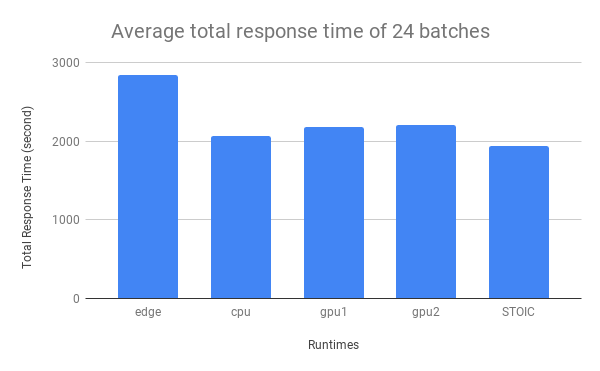
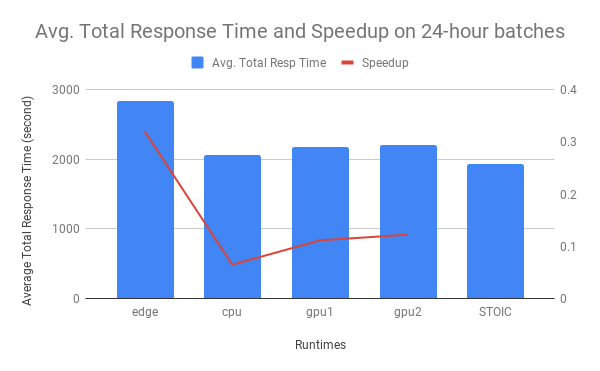
Updates from Overleaf

diff --git a/STOIC.tex b/STOIC.tex
@@ -1,4 +1,4 @@
-To leverage accelerator and distributed scheduling using the serverless architecture, we have developed STOIC, a framework for executing machine learning applications in hybrid cloud consisting of edge devices and public data centers. The STOIC streamlines the end-to-end process of packaging, transferring, scheduling, executing and retrieving result for machine learning applications. Figure~\ref{fig:STOIC} shows the architecture of STOIC, which is composed by three principal pillars: Edge cloud, Mayhem cloud and Nautilus cloud.
+To leverage accelerator and distributed scheduling using the serverless architecture, we have developed STOIC, a framework for executing machine learning applications in hybrid cloud consisting of edge devices and public data centers. The STOIC streamlines the end-to-end process of packaging, transferring, scheduling, executing and retrieving result for machine learning applications. Figure~\ref{fig:STOIC} shows the architecture of STOIC, which is composed by three principal pillars: Edge Cloud, Private Cloud and Public GPU cloud.
 
 \begin{figure}[t] \centering 
 \includegraphics[scale=0.4]{STOIC}
@@ -7,15 +7,15 @@ To leverage accelerator and distributed scheduling using the serverless architec
 \end{figure}
 
 \subsection{Edge Cloud}
- The edge cloud is a collection of edge devices, including multiple motion-detecting camera traps and local servers, deployed in open field and research facility at Sedgwick Natural Reserve~\cite{ref:sedgwick}. Across the field, especially at the water pond, those camera traps are installed to capture images of wildlife and are connected by microwave link networks to local servers in the research facility. When a motion is detected, the camera traps take photos and persist the images to the attached disk volume. Periodically, they transfer the photos to local servers in the facility, where STOIC socket server constantly listens for batch of images and cloud scheduler assigns the task to different cloud components. 
+ The edge cloud is a collection of edge devices, including multiple motion-detecting camera traps and local servers, deployed in open field and research facility at Sedgwick Natural Reserve~\cite{ref:sedgwick}. Across the field, especially at the water pond, we install camera traps to capture images of wildlife and are connected by microwave link networks to local servers in the research facility. When a motion is detected, the camera traps take photos and persist the images to the attached disk volume. Periodically, they transfer the photos to local servers in the facility, where STOIC socket server constantly listens for batch of images and cloud scheduler assigns the task to different cloud components. 
  
- \subsection{Mayhem Cloud}
+ \subsection{Private Cloud}
  
- The Mayhem cloud is a private cloud built up by a cluster of nine Intel NUCs~\cite{ref:nucs}. It is managed by Eucalyptus cloud system~\cite{ref:euca} that supports Linux virtual machine instance of Ubuntu and CentOS. Running on an instance, the STOIC socket client listens for the request from edge cloud and STOIC requester interacts with Nautilus Cloud to complete the designated task.
+ As a relay between edge cloud and public cloud, private cloud can be placed anywhere, preferably near the edge cloud, to lower the latency. Currently, we built it up in our lab by a cluster of nine Intel NUCs~\cite{ref:nucs} with a direct connection over microwave radio to Sedgwick Natural Reserve and edge devices there. It is managed by Eucalyptus cloud system~\cite{ref:euca} that supports Linux virtual machine instance of Ubuntu and CentOS. Running on an instance, the STOIC socket client listens for the request from edge cloud and STOIC requester interacts with public GPU cloud to complete the designated task.
  
- \subsection{Nautilus Cloud}
+ \subsection{Public GPU Cloud}
  
- The Nautilus Cloud~\cite{ref:nautilus} is a HyperCluster research platform led by researchers at UC San Diego, National Science Foundation, Department of Energy and various participating universities globally. Being designed for running data and computation intensive applications, Nautilus uses Kubernetes~\cite{ref:k8s} as interface to manage and scale containerized applications and uses Rook to automate Ceph~\cite{ref:ceph} data services. As of Nov. 2019, 141 computing nodes across the US joined Nautilus Cloud and 422 GPUs are available in the cluster. We consider Nautilus as an ideal public cloud to leverage accelerators in Serverless architecture to serve edge devices. 
+ The public GPU cloud is built on the top of Nautilus Cloud~\cite{ref:nautilus}, which is a HyperCluster research platform led by researchers at UC San Diego, National Science Foundation, Department of Energy and various participating universities globally. Being designed for running data and computation intensive applications, Nautilus uses Kubernetes~\cite{ref:k8s} as interface to manage and scale containerized applications and uses Rook~\cite{ref:rook} to automate Ceph~\cite{ref:ceph} data services. As of Nov. 2019, 141 computing nodes across the US joined Nautilus Cloud and 422 GPUs are available in the cluster. All these node are connected via a multi-campus network. We consider Nautilus as an ideal public cloud to leverage accelerators in Serverless architecture to serve edge devices. 
  
  \subsection{Implementation}
  
@@ -28,11 +28,11 @@ To leverage accelerator and distributed scheduling using the serverless architec
  
  \BlankLine
  \subsubsection{Customized Library}
- To better leverage the computational power of CPU in Edge and Nautilus Cloud, we compile a Tensorflow~\cite{ref:tensorflow} package from source with AVX2, SSE4.2~\cite{ref:avx} and FMA~\cite{ref:fma} instruction set support. We then test the performance of customized Tensorflow package on three common machine learning training tasks: \textbf{(A)} \textit{Iris}~\cite{ref:iris} with 10-fold cross-validation; \textbf{(B)} \textit{MNIST}~\cite{ref:mnist} on 20 Epochs; \textbf{(C)} \textit{InceptionV3}~\cite{ref:v3} on 10 epochs with 1,000 images. These applications are executed 10 times on standard and customized Tensorflow packages to ensure the result is reliable. Table~\ref{tab:avx} describes the mean execution time of three benchmarks both on standard and customized Tensorflow. The speedup is calculated as $(T_s - T_c) / T_s$, where $T_s$ and $T_c$ represent the execution time by standard and customized Tensorflow library respectively. We notice that, in all three benchmarks, the customized library gains concrete speedup ranging from 17.4\% to 29.5\%. Since the instruction set support accelerates the machine learning task on CPU runtime, we install the customized package on both Edge cloud and Nautilus Cloud Docker image to take advantage of the acceleration.
+ To better leverage the computational power of CPU in Edge and Nautilus Cloud, we compile a Tensorflow~\cite{ref:tensorflow} package from source with AVX2, SSE4.2~\cite{ref:avx} and FMA~\cite{ref:fma} instruction set support. We then test the performance of customized Tensorflow package on three common machine learning training tasks: \textbf{(A)} \textit{Iris}~\cite{ref:iris} with 10-fold cross-validation; \textbf{(B)} \textit{MNIST}~\cite{ref:mnist} on 20 Epochs; \textbf{(C)} \textit{InceptionV3}~\cite{ref:v3} on 10 epochs with 1,000 images. These applications are executed 10 times on standard and customized Tensorflow packages to ensure the result is reliable. Table~\ref{tab:avx} describes the mean execution time of three benchmarks both on standard and customized Tensorflow. We calculate speed-up as $(T_s - T_c) / T_s$, where $T_s$ and $T_c$ represent the execution time by standard and customized Tensorflow library respectively. We observe that, in all three benchmarks, the customized library gains concrete speedup ranging from 17.4\% to 29.5\%. Since the instruction set support accelerates the machine learning task on CPU runtime, we install the customized package on both Edge cloud and Nautilus Cloud Docker image to take advantage of the acceleration.
  
  \BlankLine
  \subsubsection{GPU Accessibility}
- To enable GPU access from Serverless function, we build up our runtime image based off NVIDIA Container Toolkit~\cite{ref:nvidia}, which includes NVIDIA runtime library and utilities to allow serverless function to leverage NVIDIA GPUs. The resultant image is installed CUDA 10.0 and cuDNN 7.0, which are inline with most GPU nodes' version in Nautilus Cloud. 
+ To enable GPU access from Serverless function, we build up our runtime image based off NVIDIA Container Toolkit~\cite{ref:nvidia}, which includes NVIDIA runtime library and utilities to allow serverless function to leverage NVIDIA GPUs. We also install CUDA 10.0 and cuDNN 7.0, which are inline with most GPU nodes' version in Nautilus Cloud. 
  
 \begin{table}[]
 \centering
@@ -43,7 +43,7 @@ To leverage accelerator and distributed scheduling using the serverless architec
  
  \BlankLine
  \subsubsection{Runtime definition}
- To effectively schedule the machine learning tasks, we define four runtime scenarios across hybrid cloud: \textbf{(A)} \textit{edge} - A VM instance at edge cloud on spot with AVX2 support; \textbf{(B)} \textit{cpu} - A pod with CPU with AVX2 support; \textbf{(C)} \textit{gpu1} - A pod with single GPU; \textbf{(D)} \textit{gpu2} - A pod with two GPUs. The last three runtimes are launched and invoked as kubeless functions at Nautilus Cloud. 
+ To effectively schedule the machine learning tasks, we define four runtime scenarios across hybrid cloud: \textbf{(A)} \textit{edge} - A VM instance at edge cloud on spot with AVX2 support; \textbf{(B)} \textit{cpu} - A pod with CPU with AVX2 support; \textbf{(C)} \textit{gpu1} - A pod with single GPU; \textbf{(D)} \textit{gpu2} - A pod with two GPUs. STOIC launches and invokes the last three runtimes as kubeless functions at Nautilus Cloud. 
  
  For evaluation and canary deployment purpose, STOIC has implemented a feature flag of runtime that overrides the runtime selection made by scheduler when the flag is manually set. This feature extensively helps evaluate the performance of STOIC comparing with single-runtime schedulers.
  
@@ -53,16 +53,16 @@ To leverage accelerator and distributed scheduling using the serverless architec
  
  \subsubsection{Transfer time~($T_t$)} It measures the time spent in transmitting compressed batch of images from Edge Cloud to Mayhem Cloud and Nautilus Cloud. It is calculated as ${T_t = F_b / B_c}$ where $F_b$ represents the file size of batch and $B_c$ represents the bandwidth at the moment provided by a bandwidth monitor at Edge Cloud. 
  
- \subsubsection{Runtime deployment time~($T_d$)} It measures the time Nautilus uses to deploy requested kubeless function. Since the scarcity of computation, it is common that \textit{gpu2} runtime takes longer to deploy than \textit{gpu1} and \textit{cpu} runtimes. We analyze the deployment log and calculate the average deployment time for each Nautilus runtime. In the future work, we plan to build up feedback control loop to dynamically update deployment time for each runtime. Notice that, for \textit{edge} runtime, the transfer and runtime deployment time zero out since the task is executed locally in the Edge Cloud.
+ \subsubsection{Runtime deployment time~($T_d$)} It measures the time Nautilus uses to deploy requested kubeless function. Since the scarcity of computation, it is common that \textit{gpu2} runtime takes longer to deploy than \textit{gpu1} and \textit{cpu} runtimes. We analyze the deployment log and calculate the average deployment time for each Nautilus runtime. In the future work, we plan to develop feedback control loop to dynamically update deployment time for each runtime. Note that, for \textit{edge} runtime, the transfer and runtime deployment time zero out since the task is executed locally in the Edge Cloud.
  
- \subsubsection{Processing time~($T_p$)} It is the execution time of specific machine learning task. As a primary component for scheduling task across hybrid cloud, we regress processing time based on prior experiment data by Bayesian Ridge Regression~\cite{ref:brr} due to its robustness to ill-posted problems compared to Ordinary Least Squares~\cite{ref:ols}. Thus, STOIC formulates the regression and predicts the processing time based on the file size of current batch. As same as the runtime deployment time, we plan to construct feedback control loop to dynamically update the coefficient and intercept of regression based on the incoming data of processing time as future work.
+ \subsubsection{Processing time~($T_p$)} It is the execution time of specific machine learning task. As a primary component for scheduling task across hybrid cloud, we regress processing time based on prior experiment data by Bayesian Ridge Regression~\cite{ref:brr} due to its robustness to ill-posed problems compared to Ordinary Least Squares~\cite{ref:ols}. Thus, STOIC formulates the regression and predicts the processing time based on the file size of current batch. Similarly to the runtime deployment time, we plan to construct feedback control loop to dynamically update the coefficient and intercept of regression based on the incoming data of processing time as future work.
  
  \subsection{Workflow}
  The workflow of STOIC as follows: based on three time components aforementioned, the total response times~($T_r$) of four scenarios are predicted, and the scheduler selects the runtime with least time. If the choice is \textit{edge} runtime, scheduler will simply execute the task locally in the Edge Cloud. It usually happens when the batch of image is relatively small and does not require much computation resource from public cloud.
  
  However, when the batch size increases, the task is highly likely to be scheduled at three Nautilus runtimes. For these three scenarios, STOIC sends request, including the payload of compressed image batch and runtime information, to Mayhem Cloud via TCP socket. Upon reception of the request, Mayhem Cloud first requests the deployment of corresponding runtime and secondly sends the payload and request to Nautilus Cloud when the kubeless function is deployed. As a design decision, instead of running a serving pod in Nautilus, we decide to run a server in more stable and fault-tolerant Mayhem Cloud as a relay, because of the intermittent downtime on Nautilus nodes and Ceph storage system. This design provides more reliable infrastructure for tasks executed on STOIC.
  
- On the other end, Nautilus Cloud persists the received images to the shared storage in Ceph file system and monitors the progress of deployment of kubeless function. Once the serverless function is successfully deployed, Nautilus informs the Mayhem Cloud's requester to trigger the function via HTTP request. When the task completes, the requester retrieves the results, including the runtime metrics, and transmits them back to Edge Cloud, in which the results and metrics are saved. Up to this point, a full cycle of task execution on serverless architecture has completed.
+ On the other end, Nautilus Cloud persists the received images to the shared storage in Ceph file system, while monitoring the progress of deployment of kubeless function. Once the serverless function is successfully deployed, Nautilus informs the Mayhem Cloud's requester to trigger the function via HTTP request. When the task completes, the requester retrieves the results, including the runtime metrics, and transmits them back to Edge Cloud, in which the results and metrics are saved. Up to this point, a full cycle of task execution on serverless architecture has completed.
  
  \subsection{Intelligent Probing}
- In a series of experiment, we found the processing times of same image batch and kubeless function vary significantly between first one and following ones, which is caused by cold start~\cite{ref:coldstart} problem of serverless function. Specifically, most machine learning tasks require retrieval of stored model and dataset from shared file system, and it is highly likely that they reside in a spatially remote node on Nautilus Cloud. The round-trip time between nodes is the root cause of the considerable latency at the first request. Once they are retrieved and cached during the first invocation, the function can simply use them from the local memory and the performance improves dramatically. To approach this issue, STOIC intelligently probes the recently deployed function based on the transition of runtime. When the incoming task is scheduled in a different runtime than the previous one according to the number of GPU, STOIC triggers the function with least amount of data to ensure the model and data are cached in memory and until then starts the actual task. To avoid redundant probing,  STOIC starts the task directly when the designated runtime is the same as the previous batch.
+ In a series of experiments, we found the processing times of same image batch and kubeless function vary significantly between first one and following ones, which is caused by cold start~\cite{ref:coldstart} problem of serverless function. Specifically, most machine learning tasks require retrieval of stored model and dataset from shared file system, and it is highly likely that they reside in a spatially remote node on Nautilus Cloud. The round-trip time between nodes is the root cause of the considerable latency at the first request. Once they are retrieved and cached during the first invocation, the function can simply use them from the local memory and the performance improves dramatically. To approach this issue, STOIC intelligently probes the recently deployed function based on the transition of runtime. When the incoming task is scheduled in a different runtime than the previous one according to the number of GPU, STOIC triggers the function with least amount of data to ensure the model and data are cached in memory and until then starts the actual task. To avoid redundant probing,  STOIC starts the task directly when the designated runtime is the same as the previous batch.

diff --git a/results.tex b/results.tex
@@ -22,21 +22,26 @@ We first test the efficacy of STOIC by processing an image batch of fixed size a
 \label{fig:response-time}}
 \end{figure}
 
-Additionally, we test STOIC by processing a series of image batches of growing sizes both on four runtimes and STOIC. The progressive response times are depicted in Figure~\ref{fig:response-time}. The x-axis is the size of image batch and the y-axis is the total response time~($T_r$) in seconds. The red curve represents the linearly increasing latency from \textit{edge} runtime, whereas the yellow one depicts that for \textit{cpu} runtime at Nautilus Cloud. We observe that its slope is more moderate than \textit{edge} runtime since CPUs in nodes of Nautilus Cloud are usually more powerful than Edge Cloud. The pink and green curve represent the \textit{gpu1} and \textit{gpu2} runtime respectively and they intersect at the batch size of 95, at which STOIC would switch the deployment of task from \textit{gpu1} to \textit{gpu2}. The blue dashed line depicts the total response time~($T_r$) of STOIC, which is able to schedule a series of task to the runtime with the least latency. According to such result, we ensure STOIC improves system performance by dynamic scheduling based on image batch size.
-
-
-\begin{figure}[t] \centering 
-\includegraphics[scale=0.42]{figures/24-batches}
-\caption{\textbf{Average total response time~($T_r$) of 24-hour empirical dataset}: The x-axis represents runtimes, while y-axis represents the average total response time~($T_r$) of 24-hour dataset. The 24-hour batch sizes are generated from the distribution of historical data. 
-\label{fig:24-batch}}
-\end{figure}
+Additionally, we test STOIC by processing a series of image batches of growing sizes both on four runtimes and STOIC. The progressive response times are depicted in Figure~\ref{fig:response-time}. The x-axis is the size of image batch and the y-axis is the total response time~($T_r$) in seconds. The red curve represents the linearly increasing latency from \textit{edge} runtime, whereas the yellow one depicts that for \textit{cpu} runtime at Nautilus Cloud. We observe that its slope is more moderate than \textit{edge} runtime since CPUs in nodes of Nautilus Cloud are usually more powerful than Edge Cloud. The pink and green curve represent the \textit{gpu1} and \textit{gpu2} runtime respectively and they intersect at the batch size of 95, at which STOIC would switch the deployment of task from \textit{gpu1} to \textit{gpu2}. The blue dashed line depicts the total response time~($T_r$) of STOIC, which is able to schedule a series of tasks to the runtime with the least latency. According to such result, we ensure STOIC improves system performance by dynamic scheduling based on image batch size.
 
 
 \subsection{Empirical Experiment}
 
+
+\begin{table}[t]
+    \centering
+    \input{tables/24-batch}
+    \caption{\textbf{Average total response time~($T_r$) and speed-up on 24-hour dataset}: Comparing with four single runtimes, STOIC achieves lowest average latency and speed-up ranging from 6.48\% to 32.05\%. }
+    \label{tab:24-batches}
+\end{table}
+
+
 As a empirical evaluation of STOIC, we compare the total response time~($T_r$) of multiple image batches of varying sizes by four single runtimes and STOIC. To accelerate the repetitive experiment, we developed a simulator to generate image batches based on the frequency distribution of WTB dataset. According to 2016 WTB dataset, the size of image batch fits to normal distribution $\mathbf{N}(\mu = 42.75, \sigma^2 = 39.5)$. Thus, the simulator generates 24 image batches in the Edge Cloud to emulate streaming data in one day from open field camera traps. To conduct unbiased evaluation, we seed the simulator to make these 24 image batches consistent across all runtimes and STOIC. 
 
-To ensure the validity of outcome, We again run such experiment 10 times for each runtime scenario and report the average value. Figure~\ref{fig:24-batch} demonstrates the average total response time~($T_r$) for four individual runtimes and STOIC. In comparison, STOIC obviously has the lowest average latency in our experiment. According to such result, we conclude that STOIC outperforms single-runtime scheduling mechanism on empirical dataset and real-world machine learning application.
+\begin{figure}[t] \centering 
+\includegraphics[scale=0.42]{figures/24-batches}
+\caption{\textbf{Average total response time~($T_r$) and speed-up on 24-hour dataset}: The x-axis represents runtimes, while left y-axis represents the average total response time~($T_r$) and right y-axis represents speed-up by STOIC in contrast to other runtimes on 24-hour dataset. The 24-hour batch sizes are generated from the distribution of historical data. 
+\label{fig:24-batch}}
+\end{figure}
 
-
-
+To ensure the validity of outcome, We again run such experiment 10 times for each runtime scenario and report the average value. Figure~\ref{fig:24-batch} demonstrates the average total response time~($T_r$) for four individual runtimes and STOIC. Listed in Table~\ref{tab:24-batches}, STOIC has achieved the lowest average latency and sped up four single runtimes ranging from 6.48\% to 32.05\% in our experiment. According to such result, we conclude that STOIC outperforms single-runtime scheduling mechanism on empirical dataset and real-world machine learning application.

diff --git a/conclusion.tex b/conclusion.tex
@@ -1,5 +1,5 @@
 We propose a framework, called STOIC, for executing machine learning applications in hybrid cloud and serving edge device based on serverless architecture. STOIC runs at three pillars in the hybrid cloud: Edge Cloud, Mayhem Cloud and Nautilus Cloud. When the scheduler at Edge Cloud receives batch of images from open field camera traps, it predicts the total response time of processing such image batch based on batch size and historical log data. It then schedules the task to one runtime with least total response time out of four runtime scenarios. If the task is scheduled to Nautilus Cloud, Mayhem Cloud deploys serverless function and then relays the request and payload to Nautilus. The result and metrics are returned back to Edge Cloud when the task completes.
 
-We present the design principles, implementation details, workflow and empirical evaluation on real-world machine learning application for STOIC. Our evaluation demonstrates STOIC is able to intelligently schedule machine learning tasks across hybrid cloud to obtain better performance in contrast to single-runtime scheduling mechanism.
+We present the design principles, implementation details, workflow and empirical evaluation on real-world machine learning application for STOIC. Our evaluation demonstrates STOIC is able to intelligently schedule machine learning tasks across hybrid cloud and obtain better performance, from 6.48\% to 32.05\% reduction in total response time, in contrast to single-runtime scheduling mechanism.
 
 In the future, we expect to further optimize STOIC by building up feedback control loop to dynamically update the deployment time and the processing time. It helps more accurately predict the total response time by regression and, thus, further improve STOIC's performance. We also plan to investigate the feasibility of executing model training task in STOIC and address the difficulty of lacking labels on the training data in the Edge Cloud.

diff --git a/intro.tex b/intro.tex
@@ -13,4 +13,4 @@ An immediate difficulty we face is the scarcity of computational resources on ed
     \label{fig:edge}
 \end{figure}
 
-Figure~\ref{fig:edge} illustrates the design principal of our proposed system, STOIC (Serverless TeleOperable Hybrid Cloud). In our design, the center edge cloud is supported by three underpinnings: IoT devices stream data in batches for training and inference; serverless architecture provides flexibility and elasticity to handle auto-scaling and unbalanced data payload; accelerator offers additional computational resource for extra large dataset and compute-intensive machine learning applications. In this paper, we discuss the design and implementation of this architecture, investigate the efficacy and evaluate its performance empirically. Finally, we show both related and future work and conclude.
+Figure~\ref{fig:edge} illustrates the design principal of our proposed system, STOIC (Serverless TeleOperable Hybrid Cloud). In our design, the center edge cloud is supported by three underpinnings: IoT devices stream data in batches for training and inference; serverless architecture provides flexibility and elasticity to handle auto-scaling and unbalanced data payload; accelerator offers additional computational resource for extra large dataset and compute-intensive machine learning applications. In this paper, we discuss the design and implementation of this architecture, investigate the efficacy and evaluate its performance empirically. We found STOIC reduces total response time, ranging from 6.48\% to 32.05\%, comparing with four single runtimes. Finally, we show both related and future work and conclude.

diff --git a/tables/24-batch.tex b/tables/24-batch.tex
@@ -1,0 +1,11 @@
+\scriptsize
+
+\begin{tabular}{|c|c|c|c|c|c|} 
+\hline
+\textbf{Runtimes}& \textbf{edge} & \textbf{cpu} & \textbf{gpu1} & \textbf{gpu2} & \textbf{STOIC} \\
+\hline
+Avg. $T_r$ (sec) & 2842.58 & 2065.59 & 2173.98 & 2201.02 & 1931.64 \\
+\hline
+Speed-up (\%) & 32.05 & 6.48 & 11.15 & 12.24 & N/A \\
+\hline
+\end{tabular}
